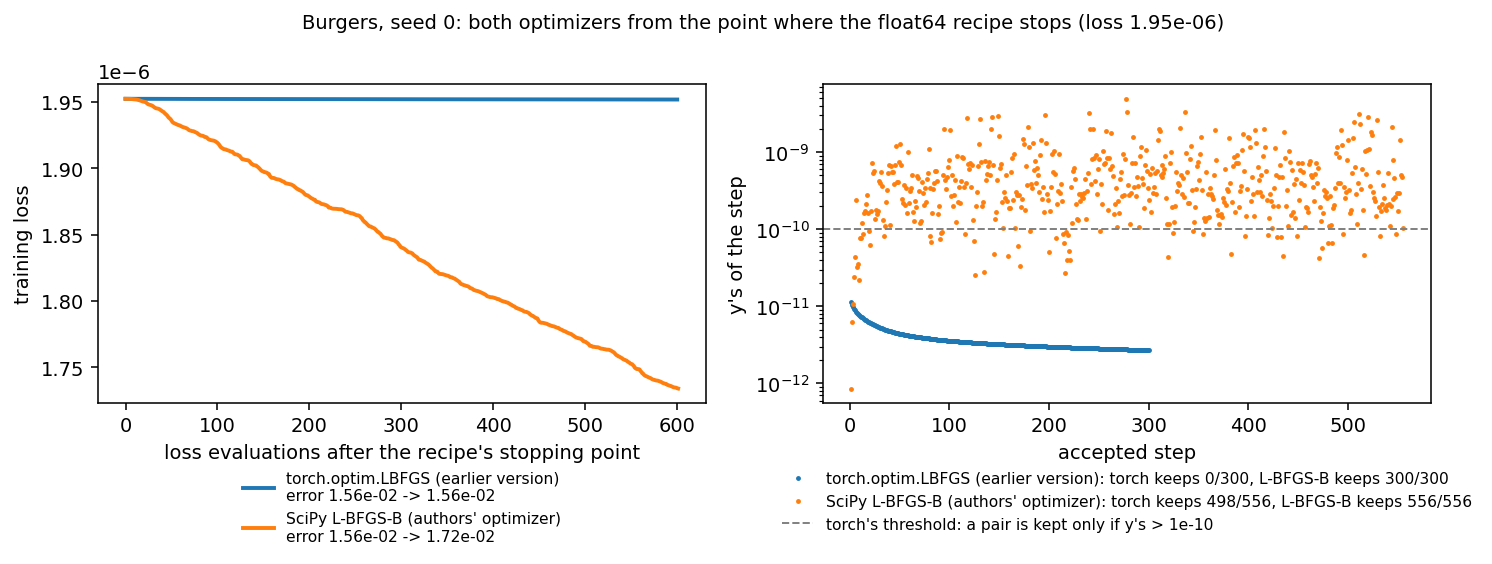
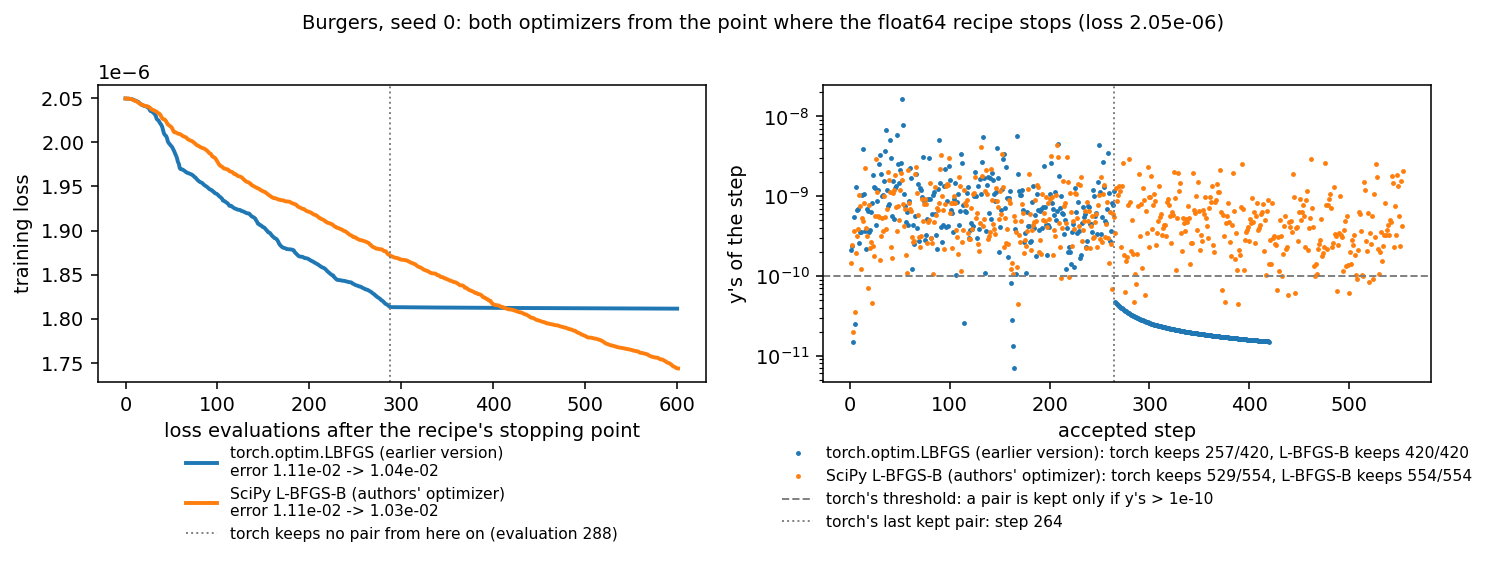
README 9 with the runs on the authors' domain (t <= 0.99): float32 above 1e-3 on 20 of 20 and at or below 6.7e-4 on 0 of 20 (95% CI 0-17%), float64 on 10 and 4 of 20, with exact intervals; the final training loss does not rank the errors (Spearman 0.04 and 0.11), V on a fresh grid does (0.58 and 0.5

diff --git a/README.md b/README.md
@@ -4,7 +4,7 @@
 [![License: MIT](https://img.shields.io/badge/License-MIT-yellow?style=flat-square)](https://opensource.org/licenses/MIT)
 [![Portfolio page](https://img.shields.io/badge/Portfolio-page-7C3AED?style=flat-square)](https://crozol.github.io/projects/04-pinns.html)
 
-**TL;DR** — Two PDEs solved with physics-informed neural networks (Raissi, Perdikaris & Karniadakis, 2019): the loss combines the PDE residual, computed via automatic differentiation at collocation points, with the initial/boundary conditions — no mesh, no training data beyond those conditions. The 1D heat equation reaches **0.23% relative L2 error** against its closed-form solution (Adam + a short L-BFGS pass), but that is a global figure: the PINN's absolute error stays near `10⁻³` while the solution decays by `5 × 10⁻⁵`, so the relative error per time slice passes 10% after `t ≈ 0.6` (Section 4). The 1D viscous Burgers equation (`nu = 0.01/pi`, the classic benchmark with a thin internal layer at `x = 0`) is harder: Adam alone plateaus at **~8.8%**; L-BFGS fine-tuning on a fixed point batch brings it to **1.78%** against the exact Cole-Hopf solution. Getting there surfaced a silent failure mode of L-BFGS with resampled collocation points (Section 5.4). Across 5 seeds the errors are **0.14% ± 0.05%** (heat) and **1.66% ± 0.49%** (Burgers). The Burgers result is sensitive to the untuned boundary-loss weight (Section 8). The original paper reports 0.067% on Burgers. Its recipe as released — SciPy's L-BFGS-B with the authors' options, in float32 — stays above `10⁻³` on 18 of 20 seeds and never reaches that number; the same recipe in float64 reaches it on 8 of 20 (Section 9). Stack: PyTorch (autograd, `torch.optim.LBFGS`) · SciPy (L-BFGS-B for the paper's recipe, reference solutions) · NumPy · Matplotlib.
+**TL;DR** — Two PDEs solved with physics-informed neural networks (Raissi, Perdikaris & Karniadakis, 2019): the loss combines the PDE residual, computed via automatic differentiation at collocation points, with the initial/boundary conditions — no mesh, no training data beyond those conditions. The 1D heat equation reaches **0.23% relative L2 error** against its closed-form solution (Adam + a short L-BFGS pass), but that is a global figure: the PINN's absolute error stays near `10⁻³` while the solution decays by `5 × 10⁻⁵`, so the relative error per time slice passes 10% after `t ≈ 0.6` (Section 4). The 1D viscous Burgers equation (`nu = 0.01/pi`, the classic benchmark with a thin internal layer at `x = 0`) is harder: Adam alone plateaus at **~8.8%**; L-BFGS fine-tuning on a fixed point batch brings it to **1.78%** against the exact Cole-Hopf solution. Getting there surfaced a silent failure mode of L-BFGS with resampled collocation points (Section 5.4). Across 5 seeds the errors are **0.14% ± 0.05%** (heat) and **1.66% ± 0.49%** (Burgers). The Burgers result is sensitive to the untuned boundary-loss weight (Section 8). The original paper reports 0.067% on Burgers. Its recipe as released — SciPy's L-BFGS-B with the authors' options, in float32 — stays above `10⁻³` on all 20 seeds and never reaches that number (95% CI for the rate: 0–17%); the same recipe in float64 reaches it on 4 of 20. The final training loss does not tell good runs from bad ones; the residual on a fresh grid, computed without the exact solution, does (Spearman ρ = 0.54–0.58), and keeping the best of 5 seeds by it leaves 13% of float64 picks above `10⁻³`, against 50% of single runs (Section 9). Stack: PyTorch (autograd, `torch.optim.LBFGS`) · SciPy (L-BFGS-B for the paper's recipe, reference solutions) · NumPy · Matplotlib.
 
 The document walks through both cases in the order they were actually solved —
 including the point where the obvious approach quietly didn't work — rather
@@ -32,7 +32,8 @@ than only presenting the final, polished numbers.
    - [9.2 · First attempt: `torch.optim.LBFGS`, a second silent stall](#92--first-attempt-torchoptimlbfgs-a-second-silent-stall)
    - [9.3 · Why the authors' optimizer, and not a patched torch](#93--why-the-authors-optimizer-and-not-a-patched-torch)
    - [9.4 · Result](#94--result)
-   - [9.5 · Remaining differences](#95--remaining-differences)
+   - [9.5 · Telling a good run from a bad one](#95--telling-a-good-run-from-a-bad-one)
+   - [9.6 · Remaining differences](#96--remaining-differences)
 10. [Reproducing](#10--reproducing)
 11. [File map](#11--file-map)
 12. [References](#12--references)
@@ -388,14 +389,16 @@ the smallest:
 The criterion selects `λ_B = 0.5`, whose error against the exact solution is
 **0.86%**, about half that of the untuned `λ_B = 2`. That error is reported
 once, after the choice; the other errors are shown for transparency, not for
-selection. `V` orders the four weights as the exact error does, so here the
-residual is a usable stand-in for the error. Two caveats limit what this
-shows: it is a single seed, and the seed-to-seed spread at fixed `λ_B`
-(Section 7) is of the same order as some of these differences; this run gives
-1.78% at `λ_B = 2`, the frozen run's value, where an earlier run of the same
-sweep gave 1.88% (training is not bit-for-bit reproducible, Section 10). The
-frozen configuration stays at the untuned `λ_B = 2`, so that every number
-before this section comes from the same setup.
+selection. `V` orders the four weights as the exact error does, but on its own
+this is weak evidence: a random order of four matches with probability
+1/24 ≈ 0.04, it is a single seed, and the seed-to-seed spread at fixed `λ_B`
+(Section 7) is of the same order as some of these differences. Section 9.5
+tests the same criterion on the 40 runs of the paper's recipe, where it does
+rank the errors (Spearman ρ = 0.54 and 0.58). This run gives 1.78% at
+`λ_B = 2`, the frozen run's value, where an earlier run of the same sweep gave
+1.88% (training is not bit-for-bit reproducible, Section 10). The frozen
+configuration stays at the untuned `λ_B = 2`, so that every number before this
+section comes from the same setup.
 
 ```bash
 python -m scripts.bc_weight_sweep --weights 0.5 --out results/bc_sweep/w0.5.json   # one process per weight
@@ -407,7 +410,7 @@ python -m scripts.bc_weight_sweep --summarize                                   
 Raissi et al. (2019) report a relative L2 error of `6.7 × 10⁻⁴` (0.067%) on this benchmark,
 about 25 times lower than the 5-seed mean above. This section measures how often their recipe
 reaches that number: the quantity reported is the failure rate over 20 seeds — how many runs
-stay above `10⁻³` — rather than a single run or a median.
+stay above `10⁻³`, with an exact 95% interval — rather than a single run or a median.
 
 ### 9.1 · What the authors ran
 
@@ -418,7 +421,10 @@ text of the paper:
 - a tanh network with 8 hidden layers of 20 neurons (3 021 parameters) in **float32** — the
   paper's "9 layers" counts the output layer. The input `(x, t)` is mapped to `[−1, 1]²` before
   the first layer, and the weights are Xavier draws from a truncated normal;
-- `N_u = 100` initial/boundary points and `N_f = 10 000` Latin-hypercube collocation points;
+- `N_u = 100` initial/boundary points and `N_f = 10 000` Latin-hypercube collocation points, on
+  the bounding box of the authors' data grid: `x ∈ [−1, 1]`, `t ∈ [0, 0.99]`. Their grid's last
+  time is 0.99, so the input scaling, the points and the error grid all stop there; an earlier
+  version of this port used `t ∈ [0, 1]`;
 - loss `MSE_u + MSE_f`, minimised by **SciPy's L-BFGS-B** through TensorFlow's
   `ScipyOptimizerInterface` with `maxiter = maxfun = 50 000`, `maxcor = 50`, `maxls = 50` and
   `ftol = ε`. The call does not set `gtol`, so SciPy's default applies: a run also stops when
@@ -430,7 +436,8 @@ the same optimizer with the same options.
 
 Every error in this section is measured against the Cole-Hopf solution on the paper's 256 × 100
 grid; that reference is converged to `2.5 × 10⁻¹⁶` (Section 5.1), twelve orders of magnitude
-below the smallest error reported here.
+below the smallest error reported here. The authors measured theirs against a numerical solution
+shipped with their code; the two references agree to `3.1 × 10⁻¹²` (Section 9.6).
 
 ### 9.2 · First attempt: `torch.optim.LBFGS`, a second silent stall
 
@@ -446,22 +453,31 @@ iteration.
 
 The cause is the test that decides whether a step's curvature pair `(s, y)` enters the memory.
 `torch.optim.LBFGS` keeps it only if `yᵀs > 10⁻¹⁰`, an absolute threshold. Near a loss of
-`10⁻⁶` the steps are small enough that `yᵀs` falls to about `10⁻¹²`, so every new pair is
-discarded, although each one is valid curvature information: `yᵀs / (−gᵀs)` stays close to 1,
-fifteen orders of magnitude above machine precision. As in Section 5.4, nothing reports the
-failure; the loss keeps decreasing, only about 400 times more slowly than under L-BFGS-B from
-the same point (table below).
+`10⁻⁶` the steps become small enough that `yᵀs` falls below it, to `10⁻¹¹`–`10⁻¹²`, and from
+then on every new pair is discarded, although each one is valid curvature information:
+`yᵀs / (−gᵀs)` stays at 1.00, fifteen orders of magnitude above machine precision. The memory
+does not recover, since without new pairs the steps stay small. As in Section 5.4, nothing
+reports the failure; the loss keeps decreasing, only about 70 times more slowly than under
+L-BFGS-B (table below).
 
 `scripts/lbfgs_memory_test.py` reproduces this from scratch: it runs the recipe in float64 until
-it stops, then gives both optimizers the same 600 loss evaluations from that point.
+it stops, then gives both optimizers the same 600 loss evaluations from that point. On seed 0,
+torch works normally for 288 evaluations, faster than L-BFGS-B, until at a loss of
+`1.81 × 10⁻⁶` its `yᵀs` falls below the threshold; it keeps no pair after step 264 (dotted line
+in the figure).
 
-| from the point where the recipe stops (loss `1.95 × 10⁻⁶`) | `torch.optim.LBFGS` | SciPy L-BFGS-B |
+| from the point where the recipe stops (seed 0, loss `2.05 × 10⁻⁶`) | `torch.optim.LBFGS` | SciPy L-BFGS-B |
 |---|---|---|
-| pairs kept by torch's test, `yᵀs > 10⁻¹⁰` | 0 / 300 | 498 / 556 |
-| pairs kept by L-BFGS-B's test, `yᵀs > ε·(−gᵀs)` | 300 / 300 | 556 / 556 |
-| median `yᵀs / (−gᵀs)` | 1.00 | 0.61 |
-| loss decrease per evaluation | `9.3 × 10⁻¹³` | `3.6 × 10⁻¹⁰` |
-| relative L2 error against the exact solution | `1.56 × 10⁻²` → `1.56 × 10⁻²` | `1.56 × 10⁻²` → `1.72 × 10⁻²` |
+| pairs kept by torch's test, `yᵀs > 10⁻¹⁰` | 257 / 420, none after step 264 | 529 / 554 |
+| pairs kept by L-BFGS-B's test, `yᵀs > ε·(−gᵀs)` | 420 / 420 | 554 / 554 |
+| loss decrease per evaluation, evaluations 1–288 | `8.2 × 10⁻¹⁰` | `6.2 × 10⁻¹⁰` |
+| loss decrease per evaluation, evaluations 289–600 | `5.5 × 10⁻¹²` | `4.1 × 10⁻¹⁰` (74 times) |
+| relative L2 error against the exact solution | `1.11 × 10⁻²` → `1.04 × 10⁻²` | `1.11 × 10⁻²` → `1.03 × 10⁻²` |
+
+Measured from the same loss instead of over the same evaluations (L-BFGS-B reaches
+`1.81 × 10⁻⁶` at evaluation 411), the ratio is 66. Before the domain was corrected
+(Section 9.1), the same test froze torch's memory from its first step (0 of 300 pairs kept):
+where the freeze sets in depends on the starting point.
 
 ![torch.optim.LBFGS vs. SciPy L-BFGS-B from the recipe's stopping point](figures/lbfgs_memory_test.png)
 
@@ -480,56 +496,87 @@ optimizer instead:
    (`tests/test_raissi_repro.py`). The two also differ in line search (Moré–Thuente vs. a
    bracketing cubic search) and in their stopping tests. A patched torch would match neither
    its own library nor the paper.
-3. **Where a run stops decides what it reports.** From the recipe's stopping point, the
-   optimizer that keeps working lowers the loss, but the error against the exact solution
-   rises, from `1.56 × 10⁻²` to `1.72 × 10⁻²`. At this level the training loss no longer tracks
-   the error, so the stopping rule (`gtol = 10⁻⁵`, `ftol = ε`) is part of the recipe — and the
-   torch runs, which kept going far past it, were measuring something else.
+3. **Where a run stops decides what it reports.** At this level the training loss no longer
+   tracks the error: across the 20 float64 runs the final loss does not rank the errors
+   (Spearman ρ = 0.11, p = 0.63; Section 9.4), and from seed 0's stopping point 600 more
+   evaluations of L-BFGS-B lower the loss by 15% while the error moves from `1.11 × 10⁻²` to
+   `1.03 × 10⁻²`. The stopping rule (`gtol = 10⁻⁵`, `ftol = ε`) is therefore part of the
+   recipe — and the torch runs, which kept going far past it, were measuring something else.
 
 ### 9.4 · Result
 
 | | float32 (the authors' precision) | float64 |
 |---|---|---|
-| runs above `10⁻³` | **18 / 20** | 8 / 20 |
-| runs at or below the published `6.7 × 10⁻⁴` | 0 / 20 | 8 / 20 |
-| median relative L2 error [IQR] | `2.9 × 10⁻³` [`1.3 × 10⁻³`, `6.4 × 10⁻³`] | `9.7 × 10⁻⁴` [`5.4 × 10⁻⁴`, `1.8 × 10⁻³`] |
-| best / worst seed | `9.0 × 10⁻⁴` / `3.7 × 10⁻²` | `4.2 × 10⁻⁴` / `9.8 × 10⁻³` |
-| stopped by | relative reduction (`ftol`) in 20 of 20 | gradient (`gtol`) in 20 of 20 |
-| median loss evaluations | 5 465 of 50 000 | 7 459 of 50 000 |
+| runs above `10⁻³` [95% CI] | **20 / 20** [83, 100%] | 10 / 20 [27, 73%] |
+| runs at or below the published `6.7 × 10⁻⁴` [95% CI] | 0 / 20 [0, 17%] | 4 / 20 [6, 44%] |
+| median relative L2 error [IQR] | `2.0 × 10⁻³` [`1.4 × 10⁻³`, `5.7 × 10⁻³`] | `1.15 × 10⁻³` [`7.0 × 10⁻⁴`, `2.1 × 10⁻³`] |
+| best / worst seed | `1.17 × 10⁻³` (seed 19) / `3.5 × 10⁻²` (seed 7) | `4.6 × 10⁻⁴` (seed 4) / `6.0 × 10⁻³` (seed 16) |
+| stopped by | relative reduction (`ftol`) in 19 of 20, gradient (`gtol`) in 1 | gradient (`gtol`) in 20 of 20 |
+| median loss evaluations | 5 496 of 50 000 | 7 095 of 50 000 |
 
-With the authors' optimizer, options and precision, no seed reaches the published `6.7 × 10⁻⁴`:
-the best, seed 2, is at `9.0 × 10⁻⁴`, and 18 of 20 stay above `10⁻³`. Every float32 run ends on
-the `ftol` test long before its budget, with the largest gradient component still above `gtol`
-(median `9 × 10⁻⁵`). That test is `(f_k − f_{k+1}) / max(|f_k|, |f_{k+1}|, 1) ≤ ε`; below a loss
-of 1 it asks for a decrease smaller than `ε ≈ 2.2 × 10⁻¹⁶`, which in float32 means a decrease the
+The intervals are exact (Clopper-Pearson) binomial intervals. With the authors' optimizer,
+options and precision, no seed reaches the published `6.7 × 10⁻⁴` and all 20 stay above `10⁻³`;
+the best, seed 19, is at `1.17 × 10⁻³`. At 95% confidence a float32 run reaches the published
+value less than 17% of the time, so either the published run was rarer than about 1 in 6 or a
+difference of implementation remains (Section 9.6). Nineteen of the 20 runs end on the `ftol`
+test long before their budget, with the largest gradient component still above `gtol` (median
+`8.5 × 10⁻⁵`). That test is `(f_k − f_{k+1}) / max(|f_k|, |f_{k+1}|, 1) ≤ ε`; below a loss of 1
+it asks for a decrease smaller than `ε ≈ 2.2 × 10⁻¹⁶`, which in float32 means a decrease the
 loss can no longer represent. A run therefore stops when float32 stops resolving its progress,
-not when it has converged, and a single such iteration is enough: seed 17 stops at a loss of
-`1.6 × 10⁻⁴`, twenty times the median, with an error of `1.1 × 10⁻²`. Across seeds a lower final
-loss goes with a lower error only loosely (Spearman ρ = 0.64).
+not when it has converged. Across seeds the final loss (`2.6 × 10⁻⁶`–`2.5 × 10⁻⁵`) does not
+rank the errors (Spearman ρ = 0.04, p = 0.86).
 
-In float64 the same recipe runs until the gradient test is met, uses about a third more
-evaluations, and does better on 16 of 20 seeds: 8 runs reach the published error, and the
-published `6.7 × 10⁻⁴` lies inside the interquartile range. Seed 17, which float32 stopped early,
-reaches `6.3 × 10⁻⁴`. Even so, 8 runs stay above `10⁻³` and three end near `10⁻²`, with a final
-loss no different from the best ones: across the float64 seeds the final loss (`1.3`–`2.4 × 10⁻⁶`)
-does not order the errors at all (Spearman ρ = −0.14). Nothing the recipe computes separates a good
-run from a bad one.
+In float64 the same recipe runs until the gradient test is met, uses about 30% more evaluations
+and does better on 16 of 20 seeds: 4 runs reach the published error, which lies just below the
+lower quartile. Even so, half the runs stay above `10⁻³`, with a final loss no different from
+the best ones: across the float64 seeds the final loss (`1.3`–`2.6 × 10⁻⁶`) does not rank the
+errors either (Spearman ρ = 0.11, p = 0.63).
 
 A seed takes about 10 min in float32 and 15–20 min in float64 on a laptop CPU, run alone.
 
-### 9.5 · Remaining differences
+### 9.5 · Telling a good run from a bad one
+
+The training loss cannot tell the good runs from the bad ones, but the validation loss `V` of
+Section 8 can. `V` is the unweighted residual of the PDE, boundary and initial conditions on a
+fresh regular grid over the authors' domain (201 × 101 interior points, 101 boundary times per
+edge, 201 initial points), so it needs no exact solution.
+
+| | float32 | float64 |
+|---|---|---|
+| Spearman ρ of `V` against the error (p) | 0.58 (0.007) | 0.54 (0.014) |
+| Spearman ρ of the final training loss against the error (p) | 0.04 (0.86) | 0.11 (0.63) |
+| error of the run with the lowest `V` (rank among 20) | `1.25 × 10⁻³` (2nd) | `4.6 × 10⁻⁴` (1st) |
+
+Keeping, among several seeds, the run with the lowest `V` is therefore a selection rule that
+needs no reference solution. Over all 15 504 sets of 5 of the 20 float64 runs, the kept run has
+a median error of `7.2 × 10⁻⁴`, reaches the published value in 46% of the sets and stays above
+`10⁻³` in 13%, against 20% and 50% for a single run; over the 1 140 sets of 3, in 36% and 25%.
+In float32 the rule lowers the median from `2.0 × 10⁻³` to `1.45 × 10⁻³`, still above `10⁻³`,
+like every float32 run. The two correlations with `V` are two tests, one per precision; both
+p-values stay below 0.025, the Bonferroni threshold for two tests at 0.05.
+
+### 9.6 · Remaining differences
 
 PyTorch instead of TensorFlow (same arithmetic, different rounding and random streams); SciPy's
 C translation of L-BFGS-B 3.0 (SciPy ≥ 1.15) instead of the Fortran original, with the same
 update and stopping tests; initial and boundary values computed from the exact formulas instead
-of read from the authors' data file, which holds the same values; and the seeds.
+of read from the authors' data file, which holds the same values; and the seeds. The authors
+score against that file, `burgers_shock.mat`, and this port against Cole-Hopf: on the file's
+256 × 100 grid the two differ by `3.1 × 10⁻¹²` (relative L2; at most `4.2 × 10⁻¹¹`, at
+`x = −0.004`, `t = 0.66`), so the comparison with `6.7 × 10⁻⁴` is like for like
+(`scripts/authors_reference.py`).
 
 A single seed is reproducible only on the same arithmetic. Seed 0 in float64 gives
-`8.65 × 10⁻³` with two threads and `1.555 × 10⁻²` with four, each time to the last digit and the
+`3.47 × 10⁻³` with two threads and `1.11 × 10⁻²` with four, each time to the last digit and the
 same iteration count: the thread count changes the order of floating-point reductions, and the
 run stops at a different point. The 20-seed runs use two threads per process; the comparison in
 Section 9.2 used four. A given seed is therefore not comparable with the authors' run of it or
 across machines — the distribution over 20 seeds is.
+
+Whether the gap between this distribution and the published run is chance or a remaining
+difference of implementation (TensorFlow 1's rounding, its random streams for the initial
+weights, pyDOE's Latin hypercube) would be settled by running the authors' code unmodified over
+20 seeds; that has not been done here.
 
 ## 10 · Reproducing
 
@@ -542,9 +589,10 @@ python -m scripts.heat_time_error    # heat error resolved in time (reads result
 python -m scripts.bc_weight_sweep    # Section 8, ~1 h per weight on one core
 python -m scripts.raissi_repro --dtype float32   # Section 9, 20 seeds, ~10 min per seed
 python -m scripts.raissi_repro --dtype float64   # ~15-20 min per seed
-python -m scripts.raissi_repro --summarize       # failure rates -> results/raissi_repro.json
+python -m scripts.raissi_repro --summarize       # rates, 95% intervals, V ranking -> results/raissi_repro.json
 python -m scripts.lbfgs_memory_test              # Section 9.2 table and figure
-# per-seed numbers depend on the thread count (Section 9.5); the runs above used OMP_NUM_THREADS=2
+python -m scripts.authors_reference              # Section 9.6: the authors' reference against Cole-Hopf (downloads it)
+# per-seed numbers depend on the thread count (Section 9.6); the runs above used OMP_NUM_THREADS=2
 ```
 
 Training is not bit-for-bit reproducible between runs — collocation points
@@ -581,7 +629,8 @@ on Burgers, not a qualitative change in the conclusions above.
 │   ├── bc_weight_sweep.py     # Burgers sensitivity to the boundary weight λ_B
 │   ├── reference_convergence.py  # error floor of the Cole-Hopf reference + Chebyshev resolution
 │   ├── raissi_repro.py        # Burgers with the original paper's recipe (SciPy L-BFGS-B, float32 + float64)
-│   └── lbfgs_memory_test.py   # torch.optim.LBFGS vs. L-BFGS-B from the recipe's stopping point
+│   ├── lbfgs_memory_test.py   # torch.optim.LBFGS vs. L-BFGS-B from the recipe's stopping point
+│   └── authors_reference.py   # the authors' burgers_shock.mat against the Cole-Hopf solution
 ├── tests/                  # pytest: residual correctness, reference sanity, training smoke test
 └── figures/                 # PINN-vs-reference comparison plots + loss curve (tracked)
 ```
